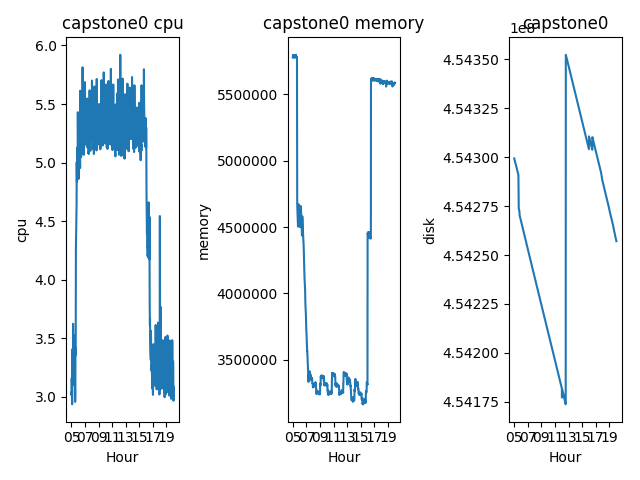
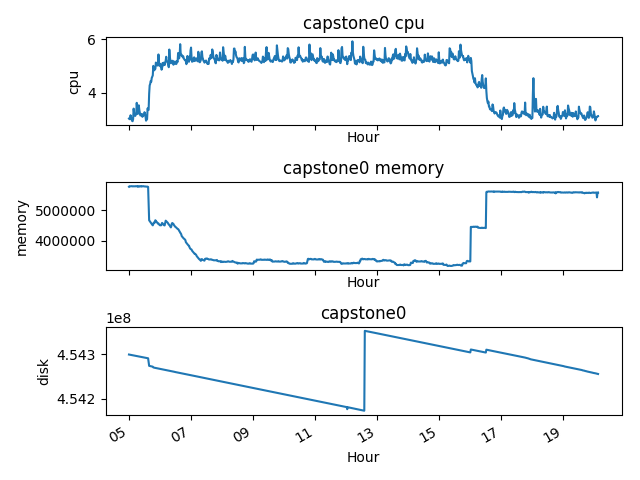
other way

diff --git a/src/get_summaries.py b/src/get_summaries.py
@@ -58,20 +58,25 @@ def main():
 		all_data = get_data(host)
 		times  = [data[1] for data in all_data[types[0]]]  
 		
+		counter = 0
+		fig, axs = plt.subplots(3, 1, sharex=True)
+		fig.autofmt_xdate()
 		for t in types:
 			metric = [data[3] for data in all_data[t]]
 
-			fig, ax = plt.subplots(1)
-			fig.autofmt_xdate()
 			
-			plt.title(host + " " + t)			
-			plt.ylabel(t)
-			plt.xlabel("Hour")
-			plt.plot(times, metric)
-			xfmt = mdates.DateFormatter('%H:%M')
-			ax.xaxis.set_major_formatter(xfmt)
-			plt.savefig(host + '_' + t + '.png')
-			plt.gcf().clear()
+			axs[counter].set_title(host + " " + t)			
+			axs[counter].set_ylabel(t)
+			axs[counter].set_xlabel("Hour")
+			axs[counter].plot(times, metric)
+			xfmt = mdates.DateFormatter('%H')
+			axs[counter].xaxis.set_major_formatter(xfmt)
+			counter += 1
+
+		plt.tight_layout()
+		plt.title(host)
+		plt.savefig(host + '.png')
+		plt.gcf().clear()
 
 
 if __name__ == "__main__":
